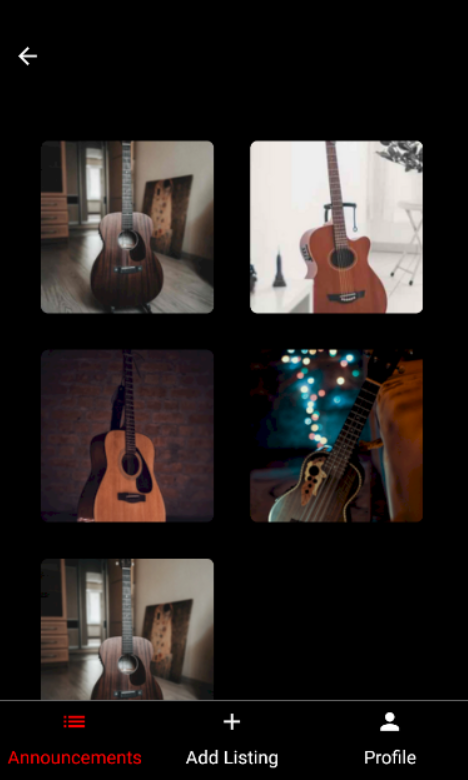
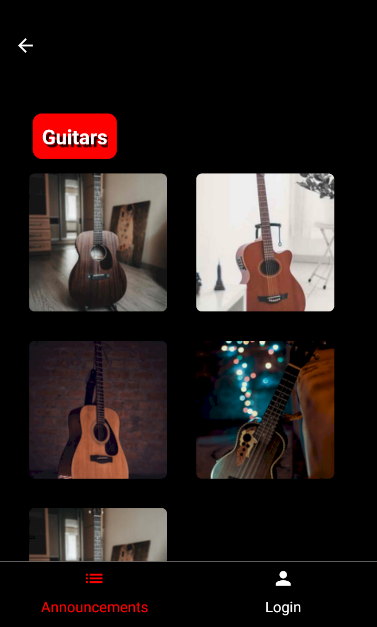
Category titles to instrumentLists

diff --git a/components/InstrumentList.js b/components/InstrumentList.js
@@ -13,7 +13,7 @@ const InstrumentList = ({navigation, categoryTitle}) => {
   const {mediaArray} = useMedia(update);
   const {loadComments, commentsArray} = useComment();
   const [commentsFetched, setCommentsFetched] = useState(false);
-
+  console.log('categoryTitle', categoryTitle);
   useEffect(() => {
     // console.log('checking the categoryTitle', categoryTitle);
   }, [categoryTitle]);
@@ -68,22 +68,36 @@ const InstrumentList = ({navigation, categoryTitle}) => {
 
   if (filteredInstrumentArray.length === 0) {
     return (
-      <View style={styles.loadingContainer}>
-        <Text style={styles.loadingText}>Loading instruments...</Text>
-        <Text style={styles.loadingText}></Text>
-        <Text style={styles.loadingText}>Nothing to show yet.</Text>
+      <View style={styles.containerinstrumentList}>
+        <View style={styles.instrumentTitleContainer}>
+          <View style={styles.instrumentListTitleView}>
+            <Text style={styles.instrumentPageTitle}>{categoryTitle}</Text>
+          </View>
+        </View>
+        <View style={styles.loadingContainer}>
+          <Text style={styles.loadingText}>Loading instruments...</Text>
+          <Text style={styles.loadingText}></Text>
+          <Text style={styles.loadingText}>Nothing to show yet.</Text>
+        </View>
       </View>
     );
   }
 
   return (
-    <FlatList
-      data={filteredInstrumentArray}
-      numColumns={2}
-      renderItem={({item}) => (
-        <InstrumentListItem navigation={navigation} singleInstrument={item} />
-      )}
-    />
+    <View style={styles.containerinstrumentList}>
+      <View style={styles.instrumentTitleContainer}>
+        <View style={styles.instrumentListTitleView}>
+          <Text style={styles.instrumentPageTitle}>{categoryTitle}</Text>
+        </View>
+      </View>
+      <FlatList
+        data={filteredInstrumentArray}
+        numColumns={2}
+        renderItem={({item}) => (
+          <InstrumentListItem navigation={navigation} singleInstrument={item} />
+        )}
+      />
+    </View>
   );
 };
 

diff --git a/styles/Styles.js b/styles/Styles.js
@@ -40,7 +40,7 @@ const styles = StyleSheet.create({
     flex: 1,
     paddingTop: Platform.OS === 'android' ? 30 : 0,
     backgroundColor: 'rgb(0,0,0)',
-    alignItems: 'center',
+    // alignItems: 'center',
     justifyContent: 'center',
   },
   // MyCurrentListItem
@@ -82,6 +82,32 @@ const styles = StyleSheet.create({
     borderRadius: 10,
     marginLeft: 20,
     alignSelf: 'flex-start',
+  },
+  containerinstrumentList: {
+    flex: 1,
+    paddingHorizontal: 16,
+    paddingTop: 16,
+    // Add any other styles you need
+  },
+  instrumentTitleContainer: {
+    alignItems: 'left',
+    justifyContent: 'top',
+  },
+  instrumentListTitleView: {
+    backgroundColor: 'rgb(255,0,0)',
+    padding: 10,
+    borderRadius: 10,
+    marginLeft: 20,
+    alignSelf: 'flex-start',
+  },
+  instrumentPageTitle: {
+    fontSize: 22,
+    fontWeight: 'bold',
+    color: 'white',
+    alignSelf: 'flex-start',
+    textShadowColor: 'rgba(0, 0, 0, 0.9)',
+    textShadowOffset: {width: 3, height: 3},
+    textShadowRadius: 3,
   },
   pageSubTitleView: {
     padding: 10,

diff --git a/README.md b/README.md
@@ -28,3 +28,7 @@ You can use the app without logging in and search for instruments announcements.
 ![ConfirmBuy.png](https://github.com/markoseppanen/soitintori/blob/styleFix/screenshots/ConfirmBuy.png)   <br>
 ![History.png](https://github.com/markoseppanen/soitintori/blob/styleFix/screenshots/History.png)   <br>
 
+# Creators
+Olli Kuokka
+Riku Nokelainen
+Marko Seppänen
